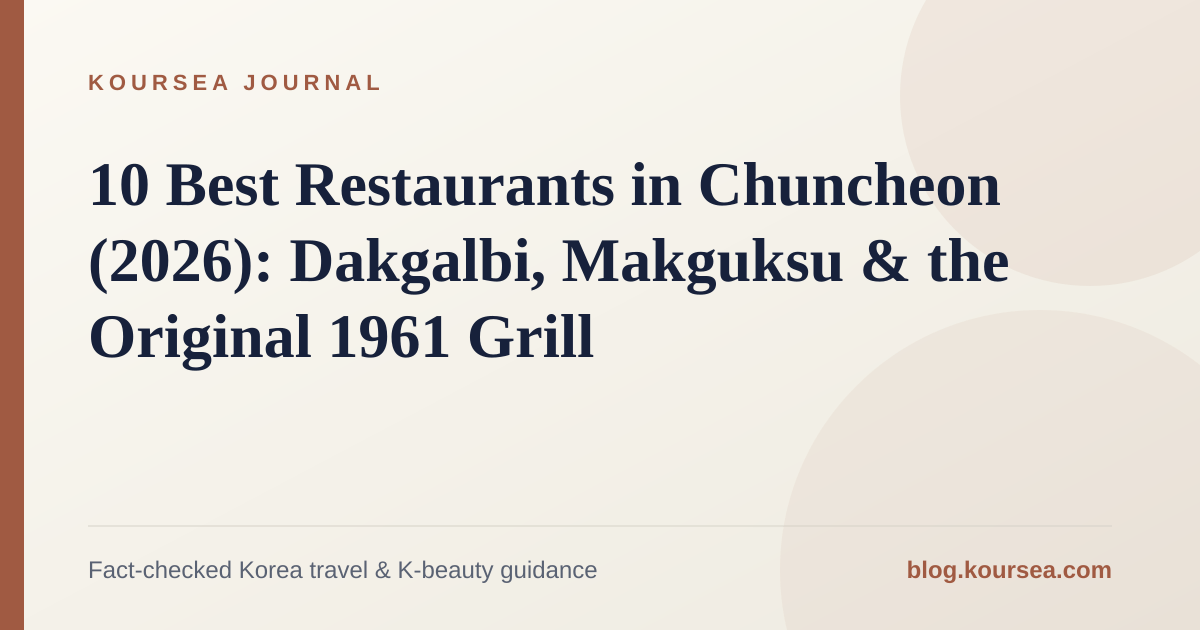
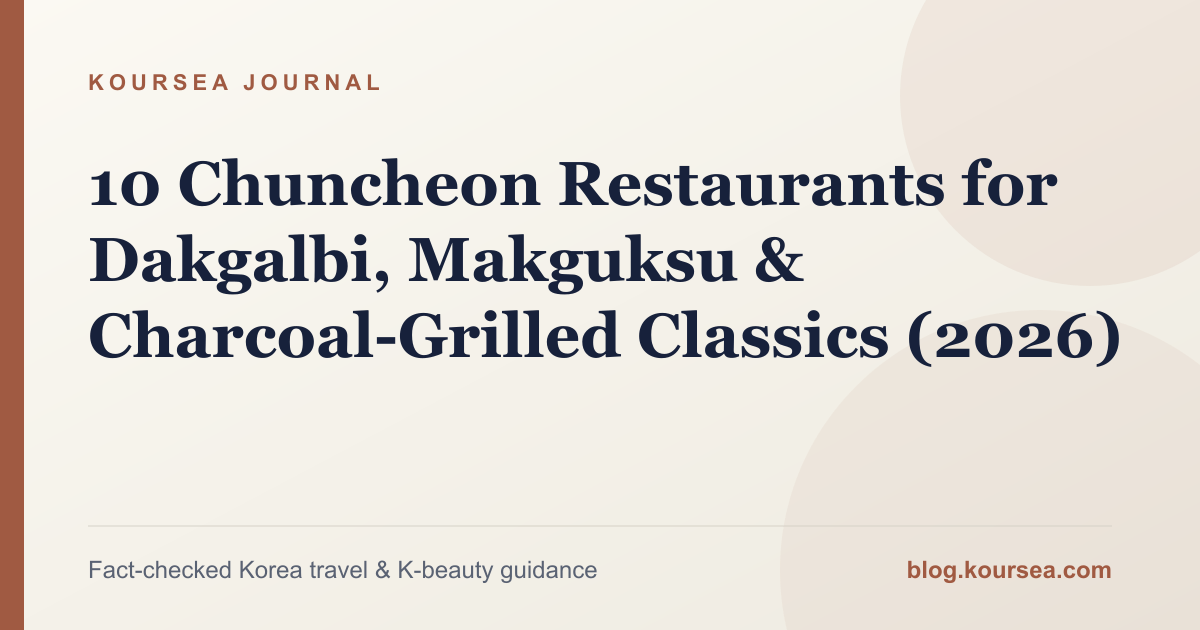
Expand five thin travel guides with official sources

diff --git a/src/content/posts/best-restaurants-chuncheon-dakgalbi-makguksu.md b/src/content/posts/best-restaurants-chuncheon-dakgalbi-makguksu.md
@@ -1,8 +1,8 @@
 ---
-title: "10 Best Restaurants in Chuncheon (2026): Dakgalbi, Makguksu & the Original 1961 Grill"
-description: "Chuncheon's 10 best restaurants for authentic dakgalbi (spicy grilled chicken) and makguksu (buckwheat noodles) — from the 1961 restaurant that invented dakgalbi to lakeside favorites near Soyang Dam."
+title: "10 Chuncheon Restaurants for Dakgalbi, Makguksu & Charcoal-Grilled Classics (2026)"
+description: "Compare 10 Chuncheon restaurants for pan-grilled and charcoal dakgalbi, makguksu, downtown access and Soyang Dam-area dining, with official-source planning notes."
 pubDate: 2026-09-07
-updatedDate: 2026-09-07
+updatedDate: 2026-09-28
 category: "Sightseeing & Food"
 tags: ["best restaurants in Chuncheon", "Chuncheon dakgalbi", "Chuncheon makguksu", "Chuncheon food guide", "Chuncheon day trip", "Koursea"]
 canonicalUrl: "https://blog.koursea.com/posts/best-restaurants-chuncheon-dakgalbi-makguksu/"
@@ -11,18 +11,26 @@ faq:
   - question: "What foods are central to this Chuncheon restaurant guide?"
     answer: "The guide focuses on dakgalbi, Chuncheon's spicy grilled chicken specialty, and makguksu, its cold buckwheat noodle specialty."
   - question: "Does the list include the restaurant associated with dakgalbi's origin?"
-    answer: "Yes. Wonjo Suttbul Dak-bulgogi is presented as the 1961 birthplace of Chuncheon dakgalbi."
+    answer: "Yes. Wonjo Sutbul Dakbulgogijip is included as one of the original restaurants associated with Chuncheon's charcoal-grilled dakgalbi tradition. Official tourism material describes the broader origin story around 1970 rather than supporting a single 1961 invention claim."
   - question: "Are all of the recommendations in downtown Chuncheon?"
     answer: "No. The list includes restaurants around Soyanggang and Sinbuk as well as places in Mancheon-ri, Geunhwa-dong, and Namsan-myeon."
 ---
 
-Chuncheon is Korea's dakgalbi capital, and its second signature dish, makguksu (cold buckwheat noodles), is just as essential. These 10 restaurants — sourced from verified local listings and cross-checked against Chuncheon's own tourism authority and Korean food media — cover the full range, from the restaurant that invented dakgalbi in 1961 to a modern burger shop that just placed in a national championship.
+Chuncheon is Korea's dakgalbi capital, and its second signature dish, makguksu (buckwheat noodles), is just as essential. This shortlist combines Koursea place records with official tourism references where available. Ratings are discovery signals captured at the time of review, not a permanent ranking; check current hours, menu prices and branch names before travelling.
+
+## Choose the right dining area
+
+- **Downtown / Myeongdong Dakgalbi Street:** easiest without a car and useful when everyone wants to compare several restaurants in one compact area.
+- **Sinbuk and Soyang Dam area:** better when the meal is paired with the dam or northern Chuncheon, but allow extra transfer time.
+- **Outside the center:** places in Mancheon-ri or Namsan-myeon make more sense by taxi or as part of a wider driving route.
+
+Official tourism material distinguishes the older charcoal-grilled style from the now-common iron-pan version. Decide which one you want before joining a queue: they are different preparations, even though both are called dakgalbi locally.
 
 ## Chuncheon's Essential Dakgalbi and Makguksu Restaurants
 
 ### 1. [Wonjo Suttbul Dak-bulgogi (원조숯불닭불고기)](https://www.koursea.com/place/2312/)
 
-The birthplace of dakgalbi itself. Founded in 1961 by Kim Yeong-seok, this is documented by Korea's own cultural heritage archive (지역N문화) as the restaurant where dakgalbi was first developed in Chuncheon — originally gochujang-marinated chicken grilled over charcoal briquettes on a metal grate. Google rating: 4.2/5 (1,764 reviews).
+One of the original restaurants associated with Chuncheon's charcoal-grilled dakgalbi tradition. VISITKOREA describes the city's origin story around 1970, when a pork-rib restaurant shifted to marinated chicken, rather than confirming a single 1961 invention date. Order carefully because charcoal-grilled dakgalbi is not the same table experience as the cabbage-heavy iron-pan version. Google rating snapshot: 4.2/5 (1,764 reviews).
 
 ### 2. [Tongnamujip Dakgalbi Main Store (통나무집닭갈비 본점)](https://www.koursea.com/place/1729/)
 
@@ -59,3 +67,18 @@ A garden-style grilled-meat restaurant in Namsan-myeon, outside the main dakgalb
 ### 10. [Ramos Burger (라모스버거)](https://www.koursea.com/place/1741/)
 
 A change of pace: this handmade-burger shop at 옛경춘로 835 placed 6th nationally at the 2026 Korea Burger Championship. Its signature Nagoya Burger is based on a recipe reported to have sold over 100,000 units in Nagoya, Japan, built on a fresh-baked daily bun, beef patty, egg, bacon, lettuce, and tomato. Google rating: 4.0/5 (908 reviews).
+
+## How to order without guessing
+
+1. Confirm whether the quoted price is **per person** and whether a minimum number of portions applies.
+2. Ask whether the branch serves iron-pan (`철판`) or charcoal-grilled (`숯불`) dakgalbi.
+3. Mention allergies before the pan is mixed; sauces and side dishes can contain soy, wheat, sesame or seafood-based seasoning.
+4. If you want fried rice at the end, leave some sauce and vegetables in the pan and ask for `볶음밥`.
+5. Treat published hours and ratings as changeable. Call or check the restaurant's current listing on holidays.
+
+## Official sources
+
+- [VISITKOREA: history and styles of Chuncheon dakgalbi](https://english.visitkorea.or.kr/svc/contents/contentsView.do?vcontsId=221263)
+- [VISITKOREA: Chuncheon Tongnamujip Dakgalbi](https://english.visitkorea.or.kr/svc/contents/contentsView.do?menuSn=211&vcontsId=188463)
+- [VISITKOREA: Chuncheon Myeongdong Dakgalbi Street](https://english.visitkorea.or.kr/svc/contents/contentsView.do?vcontsId=108005)
+- [VISITKOREA: Chuncheon Makguksu & Dakgalbi Festival](https://english.visitkorea.or.kr/svc/contents/contentsView.do?vcontsId=85560)

diff --git a/src/content/posts/seoul-subway-foreign-card-recharge-fallback.md b/src/content/posts/seoul-subway-foreign-card-recharge-fallback.md
@@ -2,15 +2,15 @@
 title: "T-Money Won't Take Your 50,000 Won Note? Recharge Fallbacks in Seoul"
 description: "What to do when a Seoul subway top-up machine rejects your large bill: convenience store counters, station staff, and breaking cash safely."
 pubDate: 2026-09-06
-updatedDate: 2026-09-06
+updatedDate: 2026-09-28
 tags: ["t-money recharge", "seoul subway", "korea transit card", "koursea"]
 canonicalUrl: "https://blog.koursea.com/posts/seoul-subway-foreign-card-recharge-fallback/"
 author: "Koursea Editorial"
 faq:
   - question: "Why did the subway machine reject my 50,000 won bill?"
-    answer: "Many older station top-up kiosks only accept 1,000, 5,000, and 10,000 won notes, plus coins. A 50,000 won note is the most commonly rejected denomination, especially on machines that haven't been serviced recently."
+    answer: "Accepted denominations vary by machine. If the screen or bill slot does not list 50,000 won, do not keep retrying it; use a listed denomination or recharge with cash at a staffed convenience store or transit-card counter."
   - question: "Can I recharge a transit card with a foreign credit card?"
-    answer: "Most station kiosks only take Korean-issued cards or cash. Convenience store registers (CU, GS25, 7-Eleven) are more likely to accept a foreign Visa or Mastercard for a T-money top-up, but it isn't guaranteed at every branch."
+    answer: "Do not assume an overseas card will recharge a standard T-money card. Official visitor guidance says purchase and charging generally require cash or a Korea-issued card. International-card support introduced in Seoul in 2026 applies to specified Climate Card short-term passes and single-journey tickets at upgraded machines, not every ordinary T-money reload."
   - question: "What's the fastest way to break a 50,000 won note for transit?"
     answer: "Buy something small at a convenience store and pay with the note — the change you get back in smaller bills and coins will work in any subway kiosk."
 ---
@@ -21,16 +21,27 @@ You're standing at the gate, your T-money card is empty, and the only cash in yo
 
 ## Why the machine is rejecting your bill
 
-Station top-up kiosks are old infrastructure in a lot of stations, and many of them are physically limited to 1,000, 5,000, and 10,000 won notes plus coins. It's not personal to your card or your card issuer — a 50,000 won note just doesn't fit the bill acceptor on a large share of machines, full stop.
+The machine shows the payment methods and denominations it accepts. If 50,000 won is not listed, the rejection is about that machine's payment configuration, not the nationality of your T-money card. Move to a supported denomination instead of repeatedly feeding the same note into the slot.
 
 ## Three fallback options, in order of speed
 
-1. **Buy something small at the nearest convenience store first.** CU, GS25, and 7-Eleven locations sit at or near almost every subway exit. Pay for a drink or snack with your 50,000 won note, and the change comes back in denominations the kiosk will actually take.
-2. **Ask the counter to recharge directly.** Convenience stores can usually top up a T-money card right at the register, skipping the station machine entirely. This also tends to accept foreign cards more reliably than the kiosk does — though not at every branch, so keep a cash backup plan.
-3. **Find the manned station counter.** Larger stations (major interchange stations, airport lines) still staff a ticket office. Staff can recharge cards manually and make change, even outside kiosk hours.
+1. **Ask a T-money convenience-store counter to recharge the card with cash.** Show the card and say the amount before handing over the note. The cashier may ask for a smaller denomination or may be unable to break 50,000 won for a small reload.
+2. **Buy something small and keep the change for a machine reload.** This is a fallback, not a guarantee that every shop will accept a large note when the till has limited change.
+3. **Use a staffed station information center where available.** Ask which nearby machine or counter supports the reload you need. Do not assume every station office exchanges large notes.
+4. **If you only need one ride, compare a single-journey ticket.** Since March 17, 2026, Seoul has allowed internationally issued Visa and Mastercard cards for single-journey tickets at 440 upgraded machines across 273 stations on Lines 1-8. Availability outside that network differs.
+
+## Do not confuse T-money with the Climate Card
+
+Seoul's 2026 international-card rollout also covers buying and recharging short-term Climate Card passes at upgraded machines, with an average service fee announced by the city. That change does **not** mean an overseas card can reload every standard T-money card at every station or convenience store. Check the exact product name on the screen before paying.
 
 ## Keep smaller bills on hand going forward
 
 Once you've broken the note, hold onto a few 1,000 and 5,000 won bills specifically for transit. It sounds trivial, but it's the single easiest way to avoid repeating this exact problem at your next station.
 
 For the full breakdown of which card to carry in the first place — T-money, the Seoul Climate Card, or WOWPASS — and how their reload rules differ, see Koursea's [Seoul Climate Card vs T-money comparison guide](https://www.koursea.com/guide-seoul-climate-card-vs-tmoney-tourist-pass-2026.html), which also covers what to do if you need a refund on an unused balance before you fly home.
+
+## Official sources
+
+- [VISITKOREA transportation-card guide](https://english.visitkorea.or.kr/svc/contents/infoBscView.do?vcontsId=140663)
+- [Seoul announcement: international cards for Climate Cards and single-journey tickets](https://english.seoul.go.kr/climate-cards-and-single-journey-transit-tickets-now-accepting-international-credit-cards-no-cash-needed/)
+- [Seoul public-transportation overview](https://english.seoul.go.kr/service/movement/public-transportation/)

diff --git a/src/content/posts/gyeongju-ktx-1-day-trip-timeline.md b/src/content/posts/gyeongju-ktx-1-day-trip-timeline.md
@@ -2,15 +2,15 @@
 title: "Gyeongju in One Day From Seoul: A Realistic KTX Timeline"
 description: "A minute-by-minute plan for a Gyeongju day trip by KTX, including which bus actually gets you to Hwangridan-gil fastest."
 pubDate: 2026-09-06
-updatedDate: 2026-09-06
+updatedDate: 2026-09-28
 tags: ["gyeongju day trip", "ktx", "hwangridan-gil", "koursea"]
 canonicalUrl: "https://blog.koursea.com/posts/gyeongju-ktx-1-day-trip-timeline/"
 author: "Koursea Editorial"
 faq:
   - question: "Is Gyeongju doable as a day trip from Seoul?"
-    answer: "Yes, by KTX. The train runs frequently enough (roughly every 30-40 minutes for much of the day) that you can leave in the morning and return the same night with several hours on the ground in Gyeongju."
+    answer: "Yes, if you reserve suitable outbound and return KTX services and leave transfer buffers at both ends. Train availability and journey times vary by date, so confirm the actual timetable on Korail rather than relying on a fixed frequency."
   - question: "Which bus should I take from Gyeongju Station to Hwangridan-gil?"
-    answer: "Bus 50 runs every 15-20 minutes directly to the Hwangridan-gil area and is the most practical option. Bus 700 only runs a handful of times a day on a fixed schedule, so don't plan around it as your primary transfer."
+    answer: "Routes and intervals can change. Check Gyeongju Live Bus when you arrive and compare the next practical city bus with a taxi; do not build the day around an old route number or blog timetable."
   - question: "Do I need to book KTX tickets in advance?"
     answer: "For weekend travel especially, book a couple of weeks ahead if you can — popular departure times sell out, and you don't want your day-trip timeline built around a train that isn't available."
 ---
@@ -21,16 +21,16 @@ Gyeongju is a genuine one-day trip from Seoul if you build your schedule around 
 
 ## Getting there
 
-KTX service between Seoul Station and Gyeongju Station runs frequently through the day — roughly every 30-40 minutes — with a one-way trip taking a little over two hours. Book ahead for weekend travel; popular departures sell out.
+Search Seoul to Gyeongju on Korail's official booking service for your exact date. Journey time and stopping pattern vary by train, and weekend or holiday seats can sell out. Reserve the return train at the same time as the outbound train so the final sightseeing stop does not determine whether you can get back to Seoul.
 
 ## The bus that actually matters
 
-From Gyeongju Station, **Bus 50** runs every 15-20 minutes directly toward the Hwangridan-gil area and is the practical default. **Bus 700** exists but only runs a handful of scheduled departures a day — don't build your itinerary around waiting for it.
+Bus numbers and intervals are not stable enough to copy from an old itinerary. Open [Gyeongju Live Bus](https://livebus.gyeongju.go.kr/) after the train arrives, search the destination in Korean, and compare the next bus with a taxi. The official Gyeongju National Museum directions, for example, currently list buses 700, 710 and 711 from Gyeongju Station, but that does not make them the best transfer for Hwangridan-gil.
 
 ## A sample day
 
-- **Morning departure from Seoul Station**, arriving in Gyeongju by mid-morning.
-- **Bus 50 to Hwangridan-gil** — roughly a 20-25 minute ride.
+- **Morning departure from Seoul Station**, using the time shown on the ticket rather than a generic travel estimate.
+- **Station transfer to Hwangridan-gil or Daereungwon** — check live buses at arrival; use a taxi if waiting would consume the first sightseeing block.
 - **Daereungwon and the historic tomb complex** — the park grounds are free to walk; the interior tomb exhibit (Cheonmachong) has a separate entrance fee.
 - **Cheomseongdae and Gyochon Village** — a flat, walkable loop; bike rentals are available near Daereungwon if you'd rather cover ground faster.
 - **Gyeongju National Museum** in the afternoon — free entry to the permanent Silla collection.
@@ -40,5 +40,19 @@ From Gyeongju Station, **Bus 50** runs every 15-20 minutes directly toward the H
 ## The one thing to build in slack for
 
 Whatever your exact schedule, leave more buffer than feels necessary between your last Gyeongju activity and your return train — a delayed bus or a longer-than-expected walk back from Donggung Palace is the easiest way to miss a departure you can't easily rebook same-day.
+
+## What to verify on the morning of travel
+
+1. Confirm both Korail bookings and the station name shown on each ticket.
+2. Check the Gyeongju Live Bus service after arrival instead of assuming a saved route is operating normally.
+3. Recheck museum and heritage-site closing notices. Gyeongju National Museum lists free admission to its permanent galleries but closes on New Year's Day, Seollal and Chuseok.
+4. Keep at least 45-60 minutes between leaving the final attraction and the scheduled train; add more on weekends or when using a bus.
+
+## Official sources
+
+- [Korail official booking service](https://smart.letskorail.com/ebizbf/EbizBfSelect.do)
+- [Gyeongju Live Bus](https://livebus.gyeongju.go.kr/)
+- [Gyeongju National Museum visitor information](https://gyeongju.museum.go.kr/eng/html/sub01/0102.html)
+- [Gyeongju city heritage walking route](https://www.gyeongju.go.kr/open_content/english/page.do?mnu_uid=1371&pageNo=2&pageOrder=0&pagePrvNxt=1&pageRef=0&parm_bod_uid=145804&parm_mnu_uid=0&srchBgpUid=-1&srchColumn=&srchEDate=&srchEnable=1&srchKeyword=&srchSDate=&srchVoteType=-1&step=258)
 
 For the full site-by-site breakdown and what's free versus ticketed, see Koursea's [Gyeongju day trip guide](https://www.koursea.com/travel-gyeongju-day-trip-seoul-ktx-tombs-hwangnidan-night-guide.html).

diff --git a/src/content/posts/kdrama-kpop-filming-locations-seoul-2026.md b/src/content/posts/kdrama-kpop-filming-locations-seoul-2026.md
@@ -1,8 +1,8 @@
 ---
 title: "10 K-Drama & K-Pop Filming Locations Near Seoul (2026)"
-description: "10 verified K-drama and K-pop filming locations around Seoul, Gyeonggi, and Incheon — from BTS's Gyeongbokgung stage to Vincenzo's Sewoon Plaza — all still open to visit, each sourced to a news or city-government article."
+description: "Plan 10 sourced K-drama and K-pop filming locations around Seoul, Gyeonggi, and Incheon, with route grouping, access checks, and respectful photo guidance."
 pubDate: 2026-09-07
-updatedDate: 2026-09-25
+updatedDate: 2026-09-28
 category: "K-Pop & Concerts"
 tags: ["K-drama filming locations Seoul", "K-pop filming locations", "BTS Gyeongbokgung", "Queen of Tears locations", "Vincenzo filming locations", "Koursea"]
 canonicalUrl: "https://blog.koursea.com/posts/kdrama-kpop-filming-locations-seoul-2026/"
@@ -16,7 +16,16 @@ faq:
     answer: "Yes. It combines verified drama locations such as Queen of Tears, Kingdom, Reborn Rich, The Glory, Start-Up, and Vincenzo with BTS's Gyeongbokgung stage."
 ---
 
-Every location below is confirmed by a specific news article or official city media report naming both the location and the exact scene — not fan speculation. All are currently open to the public.
+# 10 K-Drama & K-Pop Filming Locations Near Seoul
+
+The locations below are tied to named productions through official tourism or city sources rather than anonymous fan pins. Access can still change for maintenance, private events or commercial operations, so confirm the venue's current notice before making a special trip.
+
+## Plan the route before you go
+
+- Group **Gyeongbokgung, Baek In-je House and Sewoon Plaza** as a central-Seoul day rather than crossing the city repeatedly.
+- Combine **The Hyundai Seoul, Nodeul Island and Some Sevit** only if the weather and event schedules cooperate; these are separate Han River stops, not one walkable cluster.
+- Treat a filming reference as context, not permission. Do not block entrances, recreate scenes around customers, fly a drone or photograph private interiors without approval.
+- Save the Korean place name and address. A translated drama nickname may not be searchable in a local navigation app.
 
 ## Verified Filming Locations Around Seoul
 
@@ -59,3 +68,16 @@ Jongno-gu, Seoul (159 Cheonggyecheon-ro). The real building used as "Geumga Plaz
 ### 10. Cafe Grandpa Factory (카페 할아버지공장)
 
 Seongdong-gu, Seoul (Seongsu neighborhood). A converted factory-turned-cafe that appeared in Vincenzo as the setting for Vincenzo and Hong Cha-young's coffee conversation, per Seoul city media. Open daily as a working cafe.
+
+## Three reliable anchors for a first trip
+
+**Gyeongbokgung** is the easiest heritage anchor because the performance connection is documented by Seoul and the palace has a formal visitor operation. **Sewoon Plaza** has an official Seoul page that explicitly identifies it as a major *Vincenzo* location. **Nodeul Island** works as a riverside stop, but check its current event schedule before assuming every lawn or building is accessible.
+
+If a cafe or mall is the main reason for the trip, check its own official channel on the day. Working businesses can change hours, restrict photography or close private areas without changing an old filming-location article.
+
+## Official sources
+
+- [Seoul Metropolitan Government: Sewoon Plaza and Vincenzo](https://english.seoul.go.kr/sewoon-plaza/)
+- [Seoul Metropolitan Government: BTS Seoul pilgrimage locations](https://english.seoul.go.kr/make-a-pilgrimage-to-seoul-and-celebrate-the-10th-anniversary-of-bts/)
+- [Seoul 2026 Hallyu location guidebook](https://english.seoul.go.kr/wp-content/uploads/2026/03/2026_guidebook_EN.pdf)
+- [Koursea Nodeul Island and quiet-Seoul route](https://blog.koursea.com/posts/guide-seoul-local-decompress-spots-nodeul-jeongdong-namsan/)

diff --git a/src/content/posts/korea-road-name-address-system-guide.md b/src/content/posts/korea-road-name-address-system-guide.md
@@ -2,7 +2,7 @@
 title: "How Korean Addresses Work: A Foreign Traveler's Guide to 도로명주소 (2026)"
 description: "Learn how Korea's road-name address system works, how to find the official English version, and why the format matters for hotels, delivery and Korea Post."
 pubDate: 2026-09-10
-updatedDate: 2026-09-10
+updatedDate: 2026-09-28
 tags: ["Korea Travel", "Address", "eSIM", "Korea Post", "Practical Guide"]
 canonicalUrl: "https://blog.koursea.com/posts/korea-road-name-address-system-guide/"
 author: "Koursea Editorial"
@@ -33,6 +33,19 @@ Korea's road-name address system (도로명주소) has been the standard replace
 3. Open “English view” and copy the complete result, including building or unit details.
 4. Compare the map pin with the written address before travelling.
 
+## How to read the official result
+
+The Korean road-name address is built around the road name and building number. The Ministry of the Interior and Safety explains that building numbers are assigned from the start of the road at 20-meter intervals, with odd numbers on the left and even numbers on the right. That pattern can help you notice a pin on the wrong side of a long road, but it is not a substitute for checking the building entrance.
+
+English addresses reverse the order used in Korean. A government example such as `서울특별시 강남구 강남대로10길 109` becomes `109 Gangnam-daero 10-gil, Gangnam-gu, Seoul`. Apartment building, floor and unit information goes before the street line in English. Keep the Korean original beside it because a taxi driver, delivery counter or local map search may recognize the Korean string more reliably.
+
+### Hotel and parcel checklist
+
+- Copy the **postal code**, road name and building number from the same Juso result.
+- Add the building name and room or unit only when the recipient or accommodation provides them.
+- For a hotel, compare the official address with the pin in Naver Map or Kakao Map before leaving the airport.
+- For an international parcel, follow Korea Post's current form fields rather than shortening the address yourself.
+
 Older map listings may show the former land-lot address, and romanization can differ between apps. Use the official Juso result for government or postal forms. Some online services may also ask for Korean phone verification; that is a form requirement, not part of the road-name system itself.
 
 ## Why travellers need it
@@ -50,6 +63,7 @@ Hotels and Airbnb hosts often need the exact building name and unit. Delivery, e
 ## Official sources
 
 - [Juso road-name address system](https://www.juso.go.kr/main/engMain)
+- [Official road-name address structure and English formatting](https://business.juso.go.kr/jsu/jsu3DAddress)
 - [Juso English guidebook](https://www.juso.go.kr/CommonPageLink.do?link=/eng/about/GuideBook)
 - [Korea Post](https://www.koreapost.go.kr/eng/index.do)
 - [Korea Post EMS](https://www.epost.go.kr/main/eng/Enpost_Services3.html)
